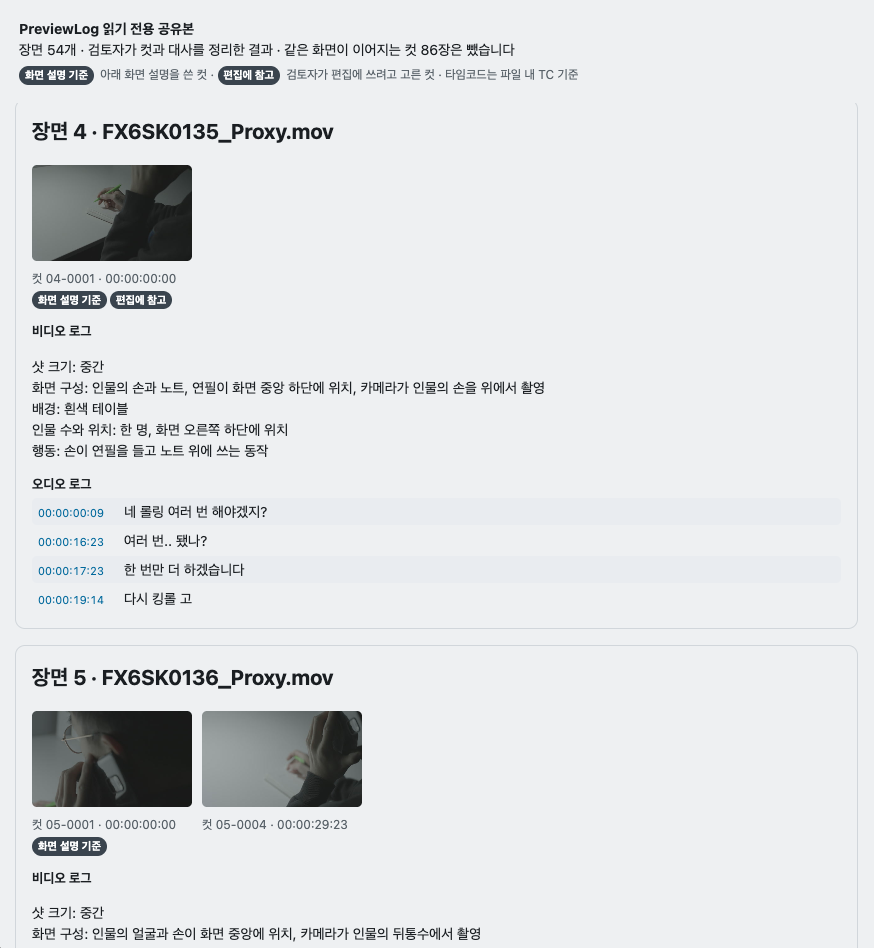
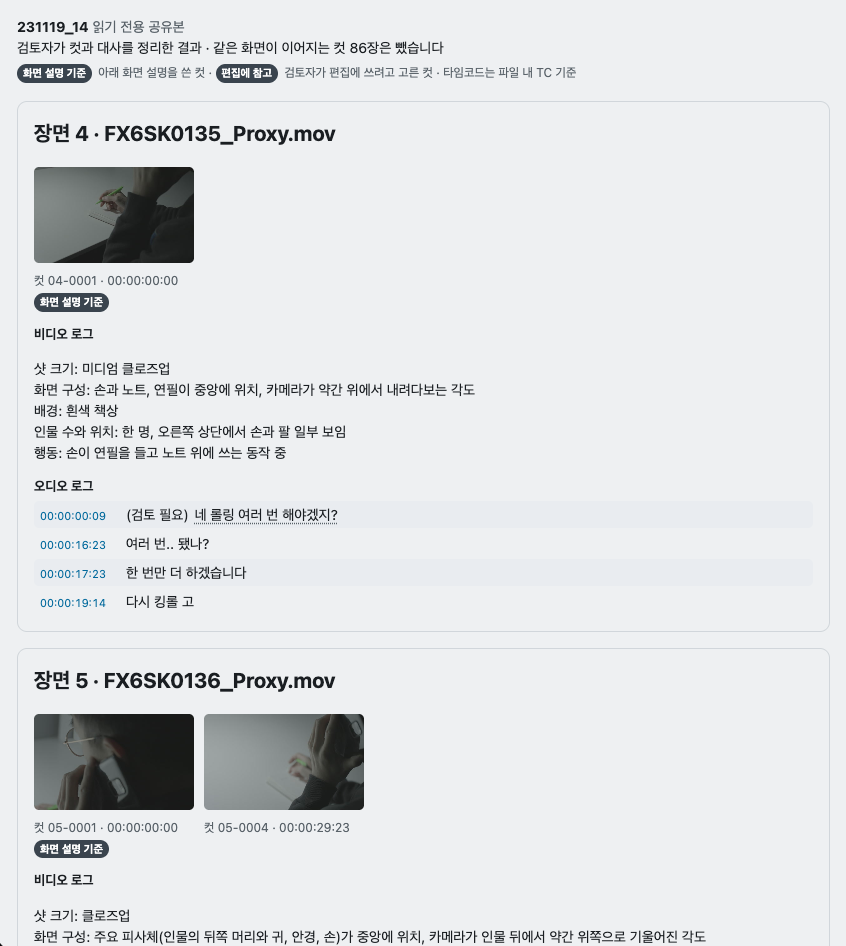
feat(assets): update product screenshots to v0.1.13

Changed region(s): [[0.0307, 0.1226, 0.6454, 0.6438], [0.0307, 0.7051, 0.8298, 1.0], [0.0, 0.0, 0.6761, 0.092]]

diff --git a/site/index.html b/site/index.html
@@ -111,11 +111,11 @@
             </div>
           </div>
           <figure id="capture-dialogue" class="capture-panel" data-capture="dialogue" hidden>
-            <img src="./assets/screenshots/dialogue-review.png" width="1901" height="991" loading="lazy" alt="PreviewLog 대사 검토 화면. 대표 컷 옆에 화면 설명과 타임코드별 대사가 정리되고, 오른쪽에 영상과 품질 경고가 표시됩니다." />
+            <img src="./assets/screenshots/dialogue-review.png" width="1404" height="1006" loading="lazy" alt="PreviewLog 대사 검토 화면. 대표 컷 옆에 화면 설명과 타임코드별 대사가 정리되고, 오른쪽에 영상과 품질 경고가 표시됩니다." />
             <figcaption><span>화면 설명, 대사, 품질 경고를 한곳에서 검토하세요.</span></figcaption>
           </figure>
           <figure id="capture-cuts" class="capture-panel" data-capture="cuts">
-            <img src="./assets/screenshots/cut-summary.png" width="1898" height="986" fetchpriority="high" alt="PreviewLog 컷 요약 화면. 촬영 파일별 대표 컷과 타임코드가 나열되고, 흐림 경고와 묶인 컷 수를 함께 확인할 수 있습니다." />
+            <img src="./assets/screenshots/cut-summary.png" width="1404" height="1009" fetchpriority="high" alt="PreviewLog 컷 요약 화면. 촬영 파일별 대표 컷과 타임코드가 나열되고, 흐림 경고와 묶인 컷 수를 함께 확인할 수 있습니다." />
             <figcaption><span>촬영 파일별 대표 컷으로 전체 흐름을 파악하세요.</span></figcaption>
           </figure>
         </div>
@@ -141,10 +141,10 @@
             </div>
           </div>
           <figure class="output-capture" id="output-share" data-output-panel="share">
-            <img src="./assets/screenshots/read-only-share.png" width="874" height="948" loading="lazy" alt="읽기 전용 공유본. 장면별 대표 컷과 화면 설명, 타임코드별 대사가 함께 정리된 실제 출력물." />
+            <img src="./assets/screenshots/read-only-share.png" width="846" height="946" loading="lazy" alt="읽기 전용 공유본. 장면별 대표 컷과 화면 설명, 타임코드별 대사가 함께 정리된 실제 출력물." />
           </figure>
           <figure class="output-capture" id="output-reference" data-output-panel="reference" hidden>
-            <img src="./assets/screenshots/edit-reference.png" width="873" height="945" loading="lazy" alt="편집 참고 목록. 검토에서 고른 컷과 대사를 순번, 화면, 타임코드, 내용 열로 정리한 실제 출력물." />
+            <img src="./assets/screenshots/edit-reference.png" width="851" height="948" loading="lazy" alt="편집 참고 목록. 검토에서 고른 컷과 대사를 순번, 화면, 타임코드, 내용 열로 정리한 실제 출력물." />
           </figure>
         </div>
         <div class="output-details">

diff --git a/docs/wiki/decisions.md b/docs/wiki/decisions.md
@@ -1,5 +1,14 @@
 # 결정 기록 (Decisions)
 
+## 2026-10-14 — v0.1.13 최신 실행 화면 및 출력물 스크린샷 4종 교체
+- **배경**: 데스크톱 앱 최신 v0.1.13 빌드 기준의 실제 실행 화면 및 출력물 스크린샷이 제공되었습니다.
+- **반영 범위**:
+  - `site/assets/screenshots/cut-summary.png`: 컷 요약 화면 교체 (1404x1009)
+  - `site/assets/screenshots/dialogue-review.png`: 대사 검토 화면 교체 (1404x1006)
+  - `site/assets/screenshots/read-only-share.png`: 읽기 전용 공유본 교체 (846x946)
+  - `site/assets/screenshots/edit-reference.png`: 편집 참고 목록 교체 (851x948)
+  - `site/index.html`: 변경된 이미지 크기에 맞춰 `img` 태그의 `width` / `height` 속성을 갱신하여 레이아웃 시프트(CLS)를 방지했습니다.
+
 ## 2026-10-13 — 사업자등록번호와 고객지원 전화번호 공개 정보 정합성 보완
 - **배경**: 공개 법적 페이지에 고객지원 전화번호(`010-5605-0939`)와 통신판매업 신고번호는 반영되어 있었지만, 사업자등록번호(`374-02-03692`)가 빠져 있었습니다.
 - **반영 범위**: `site/terms.html`, `site/privacy.html`, `site/refund.html`, `site/refund-policy.html`의 사업자 표시 정보에 사업자등록번호를 추가했습니다. 고객지원 전화번호는 `010-5605-0939`로 유지했습니다.

diff --git a/docs/wiki/roadmap.md b/docs/wiki/roadmap.md
@@ -1,5 +1,6 @@
 # 로드맵 (Roadmap)
 
+- [x] 2026-10-14 데스크톱 앱 최신 v0.1.13 기준 실행 화면 2종(컷 요약, 대사 검토) 및 출력물 캡처 2종(읽기 전용 공유본, 편집 참고 목록) 총 4개 스크린샷 교체 및 HTML width/height 속성 갱신 완료.
 - [x] 2026-10-13 법적 페이지 4종에 사업자등록번호(`374-02-03692`)를 추가하고 고객지원 전화번호(`010-5605-0939`) 및 통신판매업 신고번호와 함께 공개 정보 정합성을 맞춤. GitHub 푸시·Cloudflare Pages 프로덕션 배포·운영 도메인 검증 완료.
 - [x] 2026-10-13 법적 페이지 4종(이용약관·개인정보 처리방침·환불 및 구독 정책·앱 연동 환불 정책)에 고객지원 전화번호(`010-5605-0939`) 반영 완료. Cloudflare Pages 프로덕션 배포 및 운영 도메인 서빙 검증 완료.
 - [x] 2026-10-13 법적 페이지 4종(이용약관·개인정보 처리방침·환불 및 구독 정책·앱 연동 환불 정책)에 통신판매업 신고번호(`2026-경기여주-00296`) 반영 완료. Cloudflare Pages 배포 및 운영 도메인 서빙 검증 완료.
